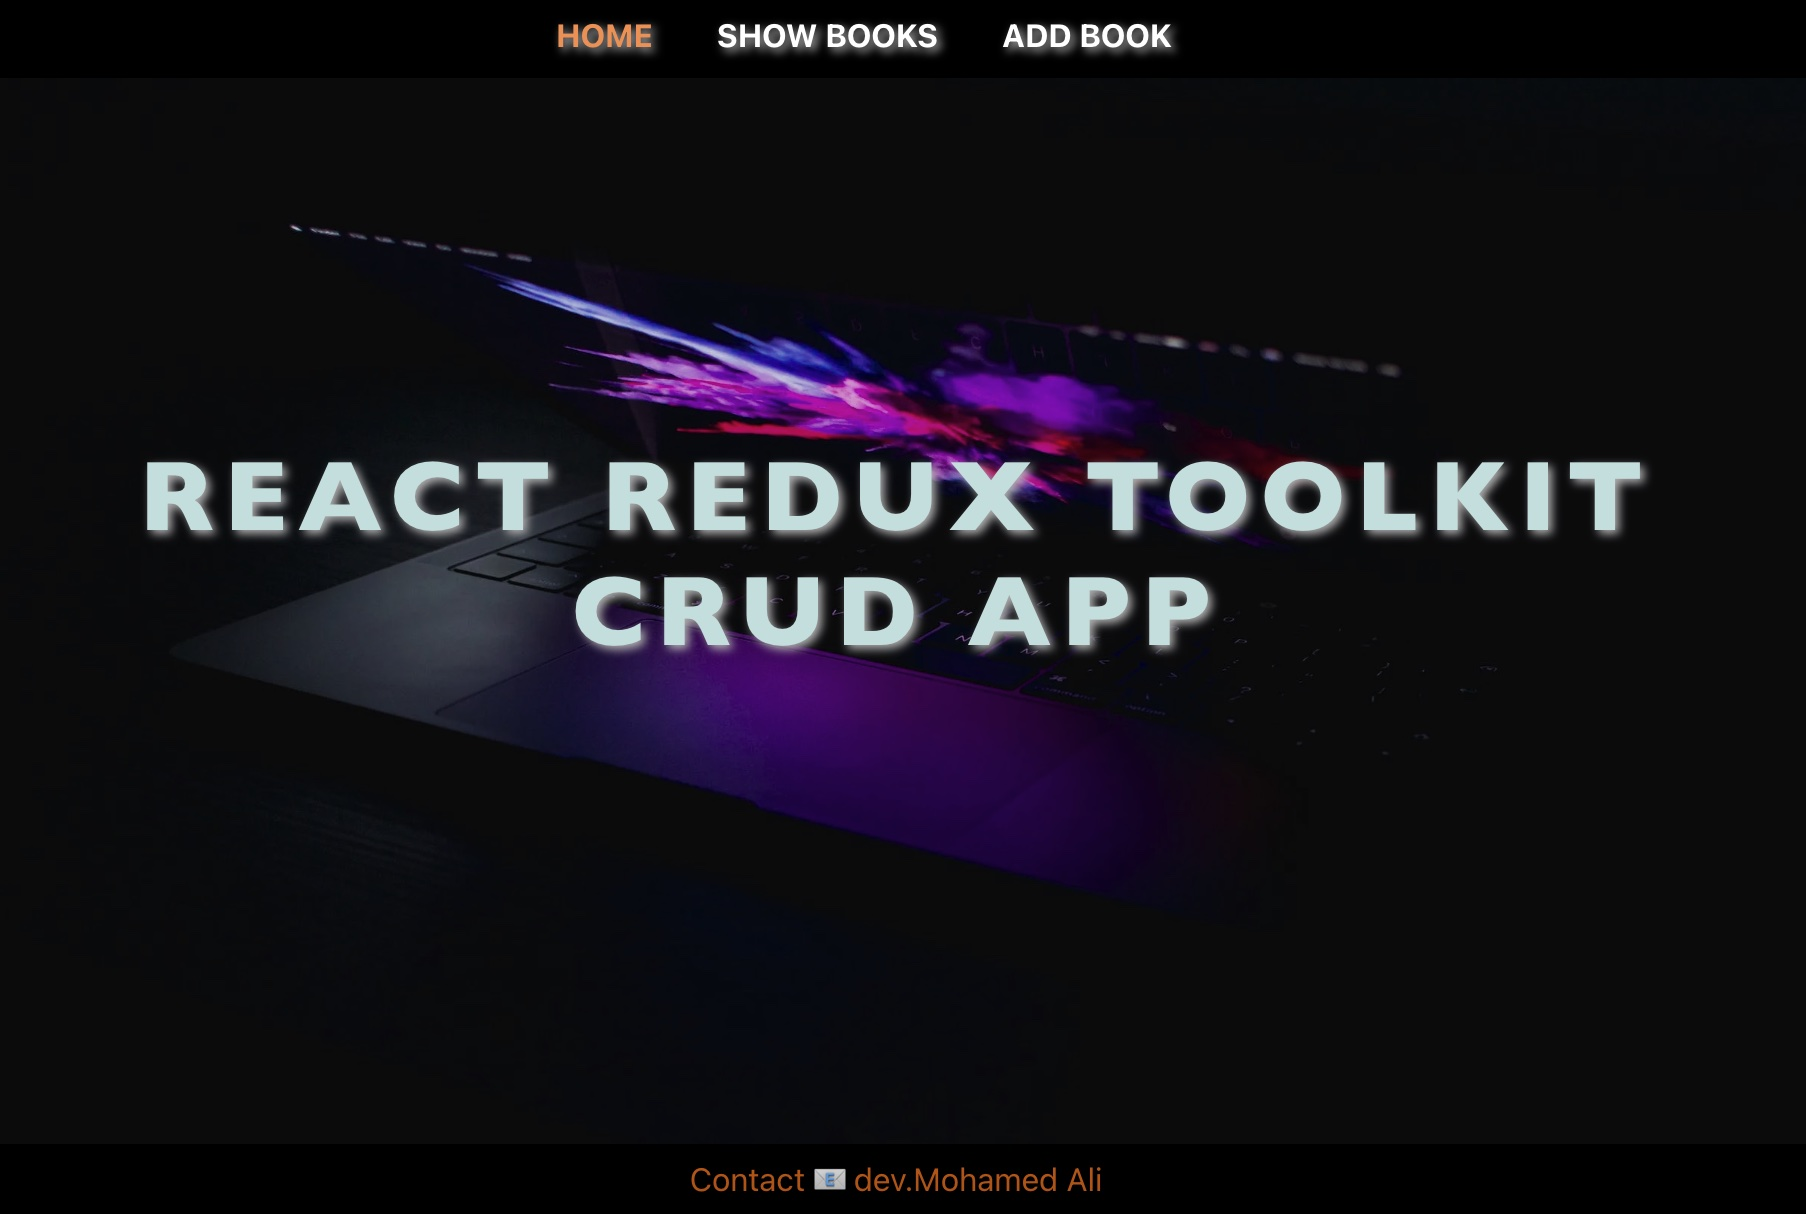
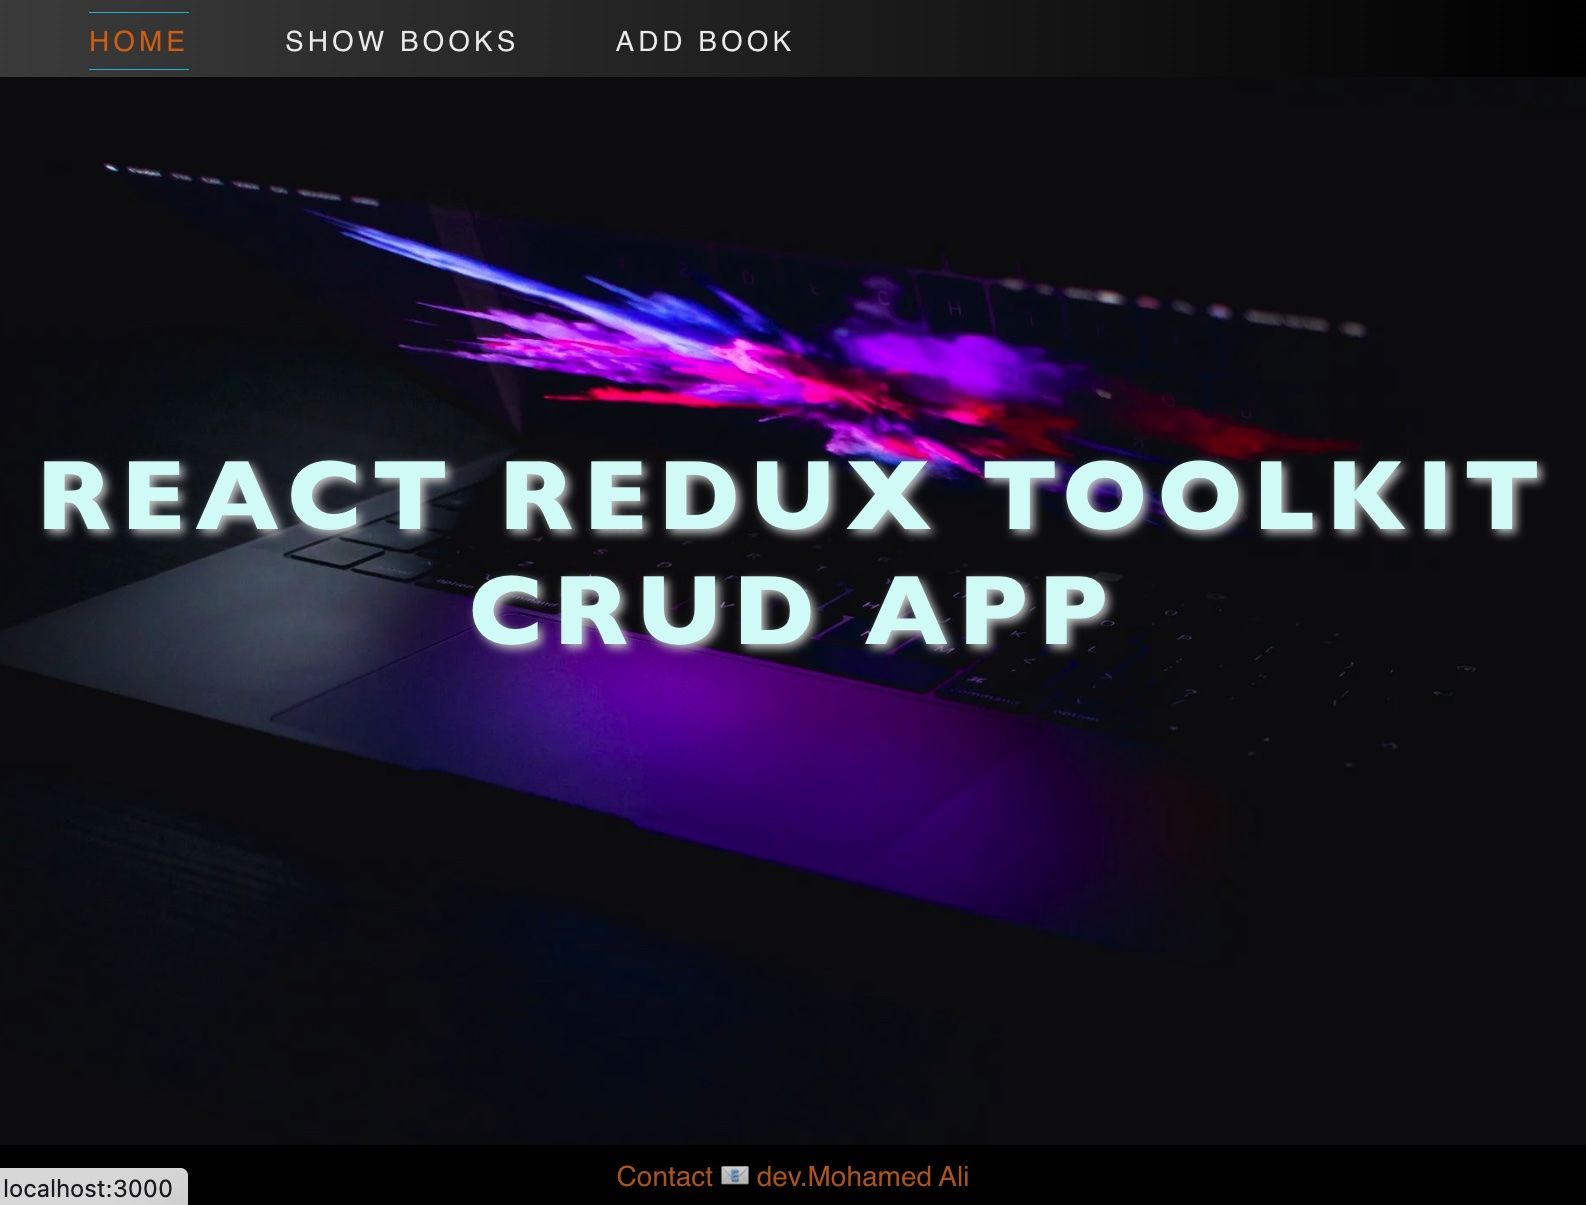
Redux-Toolkit-CRUD-App

diff --git a/src/pages/Home.css b/src/pages/Home.css
@@ -404,7 +404,7 @@ form {
   margin: 0 auto;
   top: 50%;
   left: 50%;
-  background-image: url(/public/3.jpg);
+
   background-position: center;
   object-fit: cover;
   -webkit-background-size: cover;
